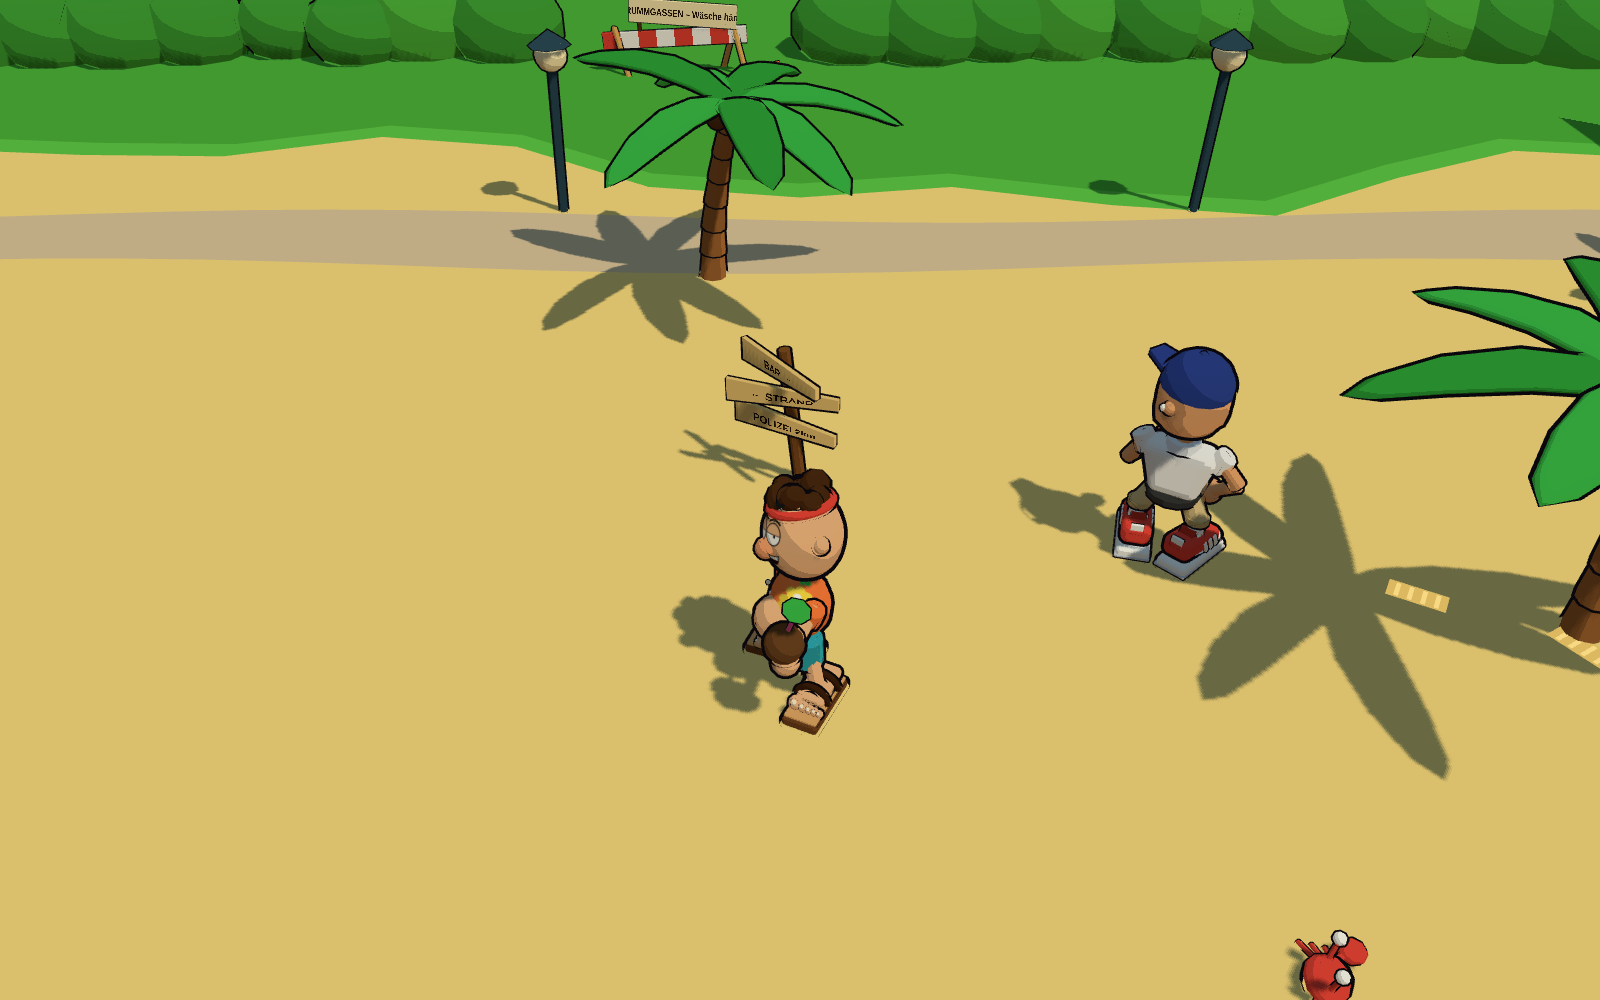
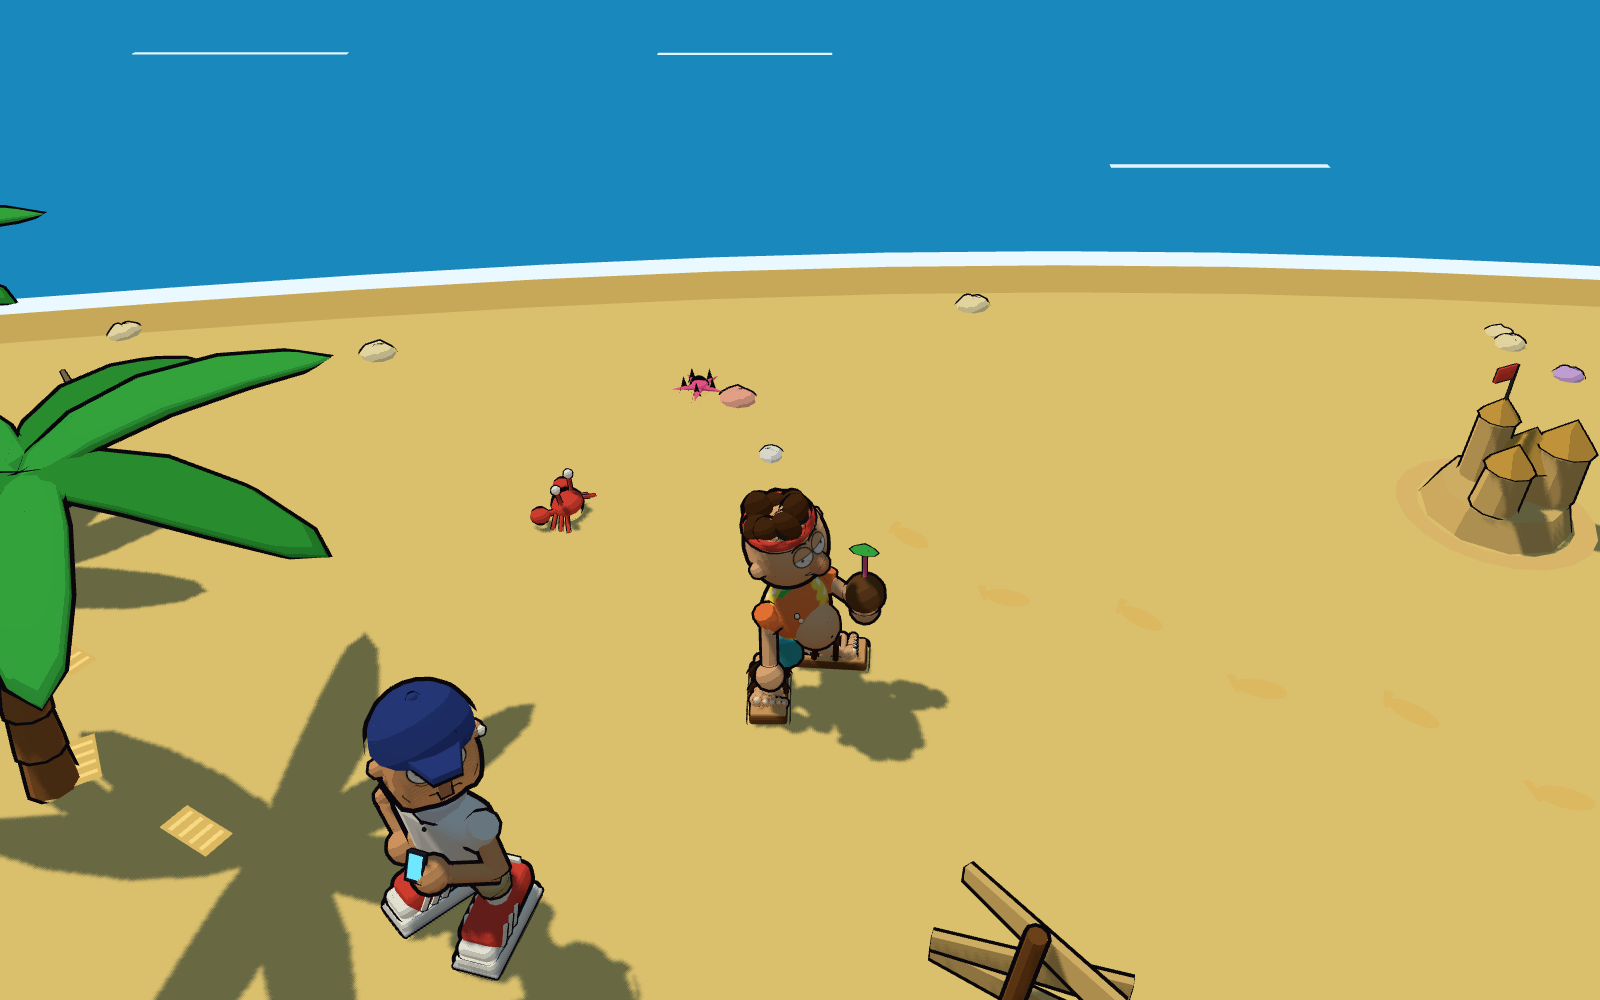
Prototyp: Verdeckungs-Fade, mehr Strand-Details

diff --git a/spiel/js/world.js b/spiel/js/world.js
@@ -2,7 +2,7 @@
 // Bauten und Deko mit passenden Collidern (Kreise für Stämme/Pfosten, Rechtecke für Gebäude).
 import * as THREE from 'three';
 import { toonMesh, toon, basicMat, deform, rng } from './toon.js';
-import { palm, beachBar, pier, boat, signpost, hammock, parasol, beachBall, coconut, crab, cloud, sun, footprints, limb, hut, mailbox, hotel, lounger, rental, sleepingSurfer, barrier, lamp, hedge } from './props.js';
+import { palm, beachBar, pier, boat, signpost, hammock, parasol, beachBall, coconut, crab, cloud, sun, footprints, limb, hut, mailbox, hotel, lounger, rental, sleepingSurfer, barrier, lamp, hedge, shell, starfish, sandcastle, driftwood } from './props.js';
 import { shoreZ, WORLD } from './logic.js';
 
 export const WATER_Y = 0.06;
@@ -19,6 +19,7 @@ function stripMesh(top, bottom, color, y, { x0 = -240, x1 = 240, step = 4, basic
   const m = toonMesh(geo, color, { outline: 0, shadow: false, basic });
   m.position.y = y;
   m.receiveShadow = !basic;
+  m.userData.noFade = true;
   return m;
 }
 
@@ -33,6 +34,7 @@ export function buildWorld() {
   const sand = toonMesh(new THREE.PlaneGeometry(520, 520), 0xf7d984, { outline: 0, shadow: false });
   sand.rotation.x = -Math.PI / 2;
   sand.receiveShadow = true;
+  sand.userData.noFade = true;
   g.add(sand);
   const grassEdge = (x) => -15 + 2.2 * Math.sin(x / 7) + 1.1 * Math.sin(x / 2.3 + 1);
   g.add(stripMesh(() => -260, grassEdge, 0x5fc74a, 0.02));
@@ -44,7 +46,7 @@ export function buildWorld() {
   for (let i = 0; i < 14; i++) {
     const x = -120 + i * 18 + rand() * 8, z0 = shoreZ(Math.max(WORLD.minX, Math.min(WORLD.maxX, x))) + 5 + rand() * 20;
     const w = toonMesh(new THREE.PlaneGeometry(4 + rand() * 4, 0.25), 0xdff4ff, { outline: 0, shadow: false, basic: true });
-    w.rotation.x = -Math.PI / 2; w.position.set(x, WATER_Y + 0.01, z0); g.add(w);
+    w.rotation.x = -Math.PI / 2; w.position.set(x, WATER_Y + 0.01, z0); w.userData.noFade = true; g.add(w);
   }
 
   // Hügel im Nordwesten (Kiffer-Kuppe, nur Kulisse) + Kokoshain-Hügel im Nordosten
@@ -52,11 +54,13 @@ export function buildWorld() {
   hillGeo.scale(44, 14, 30);
   const hill = toonMesh(hillGeo, 0x3f9d37, { outline: 0.12 });
   hill.position.set(-45, -2, -52);
+  hill.userData.noFade = true;
   g.add(hill);
   const hill2Geo = hillGeo.clone();
   hill2Geo.scale(0.6, 0.5, 0.7); // vor toonMesh skalieren, sonst passt die Kontur-Hülle nicht
   const hill2 = toonMesh(hill2Geo, 0x4cae3c, { outline: 0.12 });
   hill2.position.set(60, -2, -48);
+  hill2.userData.noFade = true;
   g.add(hill2);
   // Mentor-Hütte oben auf dem Hügel
   const mentor = hut({ w: 3, h: 2.4, d: 2.6, lean: 0.35, wall: 0x8b5a2b, straw: true, seed: 8 });
@@ -183,21 +187,44 @@ export function buildWorld() {
   g.add(footprints('sneaker', new THREE.Vector3(22, 0, 10), new THREE.Vector3(14, 0, 2), 6));
 
   // Himmel: Sonne (stoned) und Wolken weit weg
-  const s = sun(); s.position.set(70, 48, -170); s.scale.setScalar(5); g.add(s);
+  const s = sun(); s.position.set(70, 48, -170); s.scale.setScalar(5); s.userData.noFade = true; g.add(s);
   for (const [x, y, z, k] of [[-120, 42, -180, 1], [-20, 50, -200, 2], [140, 38, -150, 3], [-200, 30, -60, 4], [220, 34, -20, 5]]) {
-    const c = cloud(k); c.position.set(x, y, z); c.scale.setScalar(4); g.add(c);
+    const c = cloud(k); c.position.set(x, y, z); c.scale.setScalar(4); c.userData.noFade = true; g.add(c);
   }
 
-  // Snap-/Startpunkte: Spielerposition + Blickrichtung
+  // Hingucker: in jedem Kamerablick sollen 2–3 kleine Dinge liegen
+  const sc = sandcastle(); sc.position.set(-6, 0, 9); sc.rotation.y = 0.4; g.add(sc); circle(-6, 9, 1.3);
+  const sc2 = sandcastle(); sc2.position.set(48, 0, 9); sc2.scale.setScalar(0.7); g.add(sc2); circle(48, 9, 0.9);
+  for (const [x, z, sd] of [[-38, 11, 2], [20, 12, 3], [-55, 10, 4]]) {
+    const d = driftwood(sd); d.position.set(x, 0, z); g.add(d);
+  }
+  const shellColors = [0xffd5e0, 0xfff1c2, 0xffb6a3, 0xf4f4f8, 0xd9b3ff];
+  for (let i = 0; i < 26; i++) {
+    const x = WORLD.minX + 4 + rand() * (WORLD.maxX - WORLD.minX - 8);
+    const z = shoreZ(x) - 1 - rand() * 9;
+    const sh = shell(shellColors[i % shellColors.length], i + 7);
+    sh.position.set(x, 0, z); sh.scale.setScalar(0.7 + rand() * 0.6); g.add(sh);
+  }
+  for (const [x, z, col] of [[-16, 11, 0xff8c42], [8, 13, 0xff5fa2], [34, 12, 0xffd54a], [-48, 12, 0xff8c42], [60, 7, 0xff5fa2]]) {
+    const st = starfish(col); st.position.set(x, 0, z); st.rotation.y = rand() * 3; g.add(st);
+  }
+  const cr2 = crab(); cr2.position.set(-30, 0, 11); cr2.rotation.y = -0.8; g.add(cr2);
+  const cr3 = crab(); cr3.position.set(52, 0, 6); cr3.rotation.y = 2.4; g.add(cr3);
+  g.add(footprints('sandal', new THREE.Vector3(-6, 0, 2), new THREE.Vector3(6, 0, 9), 8));
+  g.add(footprints('sneaker', new THREE.Vector3(-44, 0, 12), new THREE.Vector3(-30, 0, 4), 8));
+  g.add(footprints('sandal', new THREE.Vector3(26, 0, 0), new THREE.Vector3(40, 0, 8), 8));
+  g.add(footprints('sneaker', new THREE.Vector3(54, 0, 1), new THREE.Vector3(62, 0, 9), 6));
+
+  // Snap-/Startpunkte: Spielerposition + Blickrichtung (Kamera steht im Norden → yaw ≈ π schaut zur Kamera)
   const spots = {
-    start: { x: -24, z: 3, yaw: 0.35 },
-    bar: { x: -28, z: -1, yaw: Math.PI },
-    pier: { x: -37, z: 9, yaw: -0.3 },
-    mitte: { x: 4, z: 4, yaw: -1.2 },
-    hotel: { x: 36, z: 1, yaw: 2.6 },
-    verleih: { x: -46, z: 0, yaw: 2.4 },
+    start: { x: -20, z: 2, yaw: 2.7 },
+    bar: { x: -28, z: 0, yaw: Math.PI },
+    pier: { x: -37, z: 9, yaw: 0.4 },
+    mitte: { x: 6, z: 5, yaw: -2.4 },
+    hotel: { x: 24, z: -4, yaw: 1.3 },
+    verleih: { x: -40, z: 2, yaw: 2.4 },
     ost: { x: 58, z: -2, yaw: Math.PI / 2 },
-    nord: { x: 0, z: -18, yaw: 0.2 },
+    nord: { x: 0, z: -16, yaw: 0.3 },
   };
   return { group: g, colliders, spots };
 }

diff --git a/spiel/js/main.js b/spiel/js/main.js
@@ -7,10 +7,11 @@ import {
 } from './logic.js';
 
 // Parameter per Regex, weil der Screenshot-Aufruf „?snap=1“ hinter andere Parameter hängt (…?at=bar?snap=1)
-const q = (name) => (location.search.match(new RegExp('[?&]' + name + '=([a-z0-9]+)')) || [])[1];
+const q = (name) => (location.search.match(new RegExp('[?&]' + name + '=([-a-z0-9.]+)')) || [])[1];
 const SNAP = q('snap') === '1';
 const STATS = q('stats') === '1';
 const AT = q('at');
+const CY = q('cy'); // Kamera-Gierung in Grad relativ zum Standard, z. B. ?at=hotel&cy=-90 (Kamera im Osten, Blick nach Westen)
 
 const renderer = new THREE.WebGLRenderer({ antialias: true, preserveDrawingBuffer: SNAP });
 renderer.setPixelRatio(SNAP ? 1 : Math.min(window.devicePixelRatio, 1.5));
@@ -54,7 +55,7 @@ colliders.push({ x: NPC.x, z: NPC.z, r: 0.7 });
 // ---------- Zustand ----------
 const startSpot = world.spots[AT] || world.spots.start;
 let state = { x: startSpot.x, z: startSpot.z, yaw: startSpot.yaw, phase: 0, speed: 0 };
-let camYaw = DEFAULT_CAM_YAW;
+let camYaw = DEFAULT_CAM_YAW + (CY ? parseFloat(CY) * Math.PI / 180 : 0);
 let cam = { x: state.x, y: CAM_OFFSET.up, z: state.z - CAM_OFFSET.back, tx: state.x, ty: CAM_OFFSET.targetY, tz: state.z };
 let clickTarget = null;
 let npcHead = 0;
@@ -104,6 +105,70 @@ function applyCamera() {
   sunLight.target.position.set(state.x, 0, state.z);
 }
 
+// ---------- Verdeckung: was zwischen Kamera und Spieler steht (oder direkt vor der Linse), wird durchsichtig ----------
+// Materialien sind pro Farbe geteilt, deshalb bekommt jedes betroffene Mesh beim Ausblenden eine eigene Kopie.
+const faded = new Map(); // mesh -> Originalmaterial
+const fadeRay = new THREE.Raycaster();
+const tmpV = new THREE.Vector3();
+const tmpSphere = new THREE.Sphere();
+const FADE_OPACITY = 0.25;
+function fadeMesh(m) {
+  if (faded.has(m) || !m.isMesh) return;
+  const orig = m.material;
+  faded.set(m, orig);
+  const mats = Array.isArray(orig) ? orig : [orig];
+  const clones = mats.map((mat) => {
+    const c = mat.clone();
+    c.transparent = true;
+    if (c.isShaderMaterial) c.uniforms.opacity.value = FADE_OPACITY; else c.opacity = FADE_OPACITY;
+    c.depthWrite = false;
+    return c;
+  });
+  m.material = Array.isArray(orig) ? clones : clones[0];
+}
+function unfadeAll(keep) {
+  for (const [m, orig] of faded) {
+    if (keep.has(m)) continue;
+    const cur = Array.isArray(m.material) ? m.material : [m.material];
+    cur.forEach((c) => c.dispose());
+    m.material = orig;
+    faded.delete(m);
+  }
+}
+function updateFade() {
+  const camPos = camera.position;
+  const target = tmpV.set(state.x, 1.4, state.z);
+  const dist = camPos.distanceTo(target);
+  fadeRay.set(camPos, target.clone().sub(camPos).normalize());
+  fadeRay.far = dist - 0.8;
+  const keep = new Set();
+  // Kandidaten: Props in der Nähe des Spielers oder der Kamera (Boden/Wasser sind per noFade ausgenommen)
+  const candidates = [];
+  for (const o of world.group.children) {
+    if (o.userData.noFade) continue;
+    const d = Math.min(o.position.distanceTo(target), o.position.distanceTo(camPos));
+    if (d < 30) candidates.push(o);
+  }
+  const hits = fadeRay.intersectObjects(candidates, true);
+  const groups = new Set();
+  for (const h of hits) {
+    let o = h.object;
+    while (o.parent && o.parent !== world.group) o = o.parent;
+    groups.add(o);
+  }
+  // direkt vor der Linse: Bounding-Sphere des Meshes nahe an der Kamera
+  for (const o of candidates) {
+    if (groups.has(o)) continue;
+    o.traverse((m) => {
+      if (groups.has(o) || !m.isMesh || !m.geometry.boundingSphere) return;
+      tmpSphere.copy(m.geometry.boundingSphere).applyMatrix4(m.matrixWorld);
+      if (tmpSphere.distanceToPoint(camPos) < 2.5) groups.add(o);
+    });
+  }
+  for (const grp of groups) grp.traverse((m) => { if (m.isMesh) { fadeMesh(m); keep.add(m); } });
+  unfadeAll(keep);
+}
+
 function resize() {
   const w = window.innerWidth, h = window.innerHeight;
   renderer.setSize(w, h, true);
@@ -125,8 +190,11 @@ if (SNAP) {
   applyPose(state);
   npc.userData.parts.head.rotation.y = npcHeadYaw(NPC, state);
   for (let i = 0; i < 300; i++) cam = followCamera(cam, state, 1 / 60, camYaw);
-  if (overview) cam = { x: 0, y: 78, z: 78, tx: 0, ty: 0, tz: -8 };
+  if (overview) cam = { x: 0, y: 78, z: -74, tx: 0, ty: 0, tz: 10 };
   applyCamera();
+  camera.updateMatrixWorld();
+  world.group.updateMatrixWorld(true);
+  updateFade();
   const shoot = () => { resize(); renderer.render(scene, camera); requestAnimationFrame(() => { resize(); renderer.render(scene, camera); }); };
   if (document.readyState === 'complete') shoot(); else window.addEventListener('load', shoot);
   window.addEventListener('resize', shoot);
@@ -153,6 +221,8 @@ if (SNAP) {
     npc.userData.parts.head.rotation.y = npcHead;
     cam = followCamera(cam, state, dt, camYaw);
     applyCamera();
+    camera.updateMatrixWorld();
+    updateFade();
     renderer.render(scene, camera);
     stats();
   });

diff --git a/spiel/js/props.js b/spiel/js/props.js
@@ -755,3 +755,68 @@ export function hedge(x0, x1, z, { gapFrom = 1, gapTo = -1, seed = 3 } = {}) {
   }
   return g;
 }
+
+// ---------- Hingucker für den Sand: Muschel, Seestern, Sandburg, Treibholz ----------
+export function shell(color = 0xffd5e0, seed = 1) {
+  const g = new THREE.Group();
+  const rand = rng(seed);
+  const geo = new THREE.SphereGeometry(0.32, 10, 6, 0, Math.PI * 2, 0, Math.PI * 0.5);
+  geo.scale(1, 0.55, 0.85);
+  deform(geo, (v) => { const a = Math.atan2(v.z, v.x); v.y *= 1 + 0.25 * Math.sin(a * 6); });
+  const m = toonMesh(geo, color, { outline: 0.03 });
+  m.rotation.y = rand() * Math.PI * 2;
+  g.add(m);
+  return g;
+}
+
+export function starfish(color = 0xff8c42) {
+  const g = new THREE.Group();
+  const core = toonMesh(new THREE.SphereGeometry(0.18, 8, 6), color, { outline: 0.03 });
+  core.geometry.scale(1, 0.5, 1);
+  core.position.y = 0.08;
+  g.add(core);
+  for (let i = 0; i < 5; i++) {
+    const a = (i / 5) * Math.PI * 2;
+    const arm = toonMesh(new THREE.ConeGeometry(0.11, 0.5, 6), color, { outline: 0.025 });
+    arm.geometry.rotateX(Math.PI / 2);
+    arm.geometry.scale(1, 0.5, 1);
+    arm.position.set(Math.cos(a) * 0.3, 0.07, Math.sin(a) * 0.3);
+    arm.rotation.y = -a + Math.PI / 2;
+    g.add(arm);
+  }
+  return g;
+}
+
+export function sandcastle() {
+  const g = new THREE.Group();
+  const c = 0xe8c47a;
+  const base = toonMesh(new THREE.CylinderGeometry(1.0, 1.2, 0.5, 10), c, { outline: 0.04 });
+  base.position.y = 0.25; g.add(base);
+  const towers = [[-0.5, -0.4, 0.42, 1.0], [0.55, -0.3, 0.36, 0.8], [0.1, 0.5, 0.3, 1.2], [-0.2, 0.0, 0.5, 0.6]];
+  for (const [x, z, r, h] of towers) {
+    const t = toonMesh(new THREE.CylinderGeometry(r * 0.9, r, h, 10), c, { outline: 0.035 });
+    t.position.set(x, 0.5 + h / 2, z); t.rotation.z = (x - z) * 0.08; g.add(t);
+    const roof = toonMesh(new THREE.ConeGeometry(r * 1.05, r * 1.2, 10), 0xd9a84a, { outline: 0.035 });
+    roof.position.set(x, 0.5 + h + r * 0.55, z); g.add(roof);
+  }
+  // Fähnchen auf dem höchsten Turm
+  g.add(limb(new THREE.Vector3(0.1, 1.9, 0.5), new THREE.Vector3(0.15, 2.7, 0.5), 0.02, 0x333333, { outline: 0.01 }));
+  const flag = toonMesh(new THREE.BoxGeometry(0.4, 0.25, 0.03), 0xe8463a, { outline: 0.02 });
+  flag.position.set(0.37, 2.58, 0.5); g.add(flag);
+  // Burggraben-Andeutung: dunkler Ring
+  const moat = toonMesh(new THREE.RingGeometry(1.25, 1.6, 20), 0xd9b56a, { outline: 0, shadow: false, basic: true });
+  moat.rotation.x = -Math.PI / 2; moat.position.y = 0.012; g.add(moat);
+  return g;
+}
+
+export function driftwood(seed = 2) {
+  const g = new THREE.Group();
+  const rand = rng(seed);
+  const pts = [new THREE.Vector3(-1.2, 0.15, 0), new THREE.Vector3(-0.3, 0.25, 0.25), new THREE.Vector3(0.5, 0.15, -0.1), new THREE.Vector3(1.3, 0.3, 0.2)];
+  const curve = new THREE.CatmullRomCurve3(pts);
+  const tube = toonMesh(new THREE.TubeGeometry(curve, 10, 0.16, 7, false), 0xa08a6a, { outline: 0.035 });
+  g.add(tube);
+  g.add(limb(new THREE.Vector3(0.4, 0.2, -0.1), new THREE.Vector3(0.7, 0.55, -0.5), 0.07, 0xa08a6a, { outline: 0.025, taper: 0.5 }));
+  g.rotation.y = rand() * Math.PI * 2;
+  return g;
+}

diff --git a/spiel/test/logic.test.js b/spiel/test/logic.test.js
@@ -136,12 +136,12 @@ test('followCamera: konvergiert auf Offset hinter/über dem Spieler, schaut aufs
   let c2 = { ...cam };
   for (let i = 0; i < 600; i++) c2 = followCamera(c2, p, 1 / 60, Math.PI / 2);
   close(c2.x, 10 + CAM_OFFSET.back, 1e-3); close(c2.z, 5, 1e-3);
-  // Standard-Gierung: Kamera im Süden (+z), schaut nach Norden; „hoch“ läuft nach Norden (Karte oben)
+  // Standard-Gierung: Kamera im Norden (-z), schaut nach Süden aufs Meer; „hoch“ läuft Richtung Meer
   let c3 = { ...cam };
   for (let i = 0; i < 600; i++) c3 = followCamera(c3, p, 1 / 60, DEFAULT_CAM_YAW);
-  close(c3.z, 5 + CAM_OFFSET.back, 1e-3); close(c3.tz, 5 - CAM_OFFSET.lookAhead, 1e-3);
+  close(c3.z, 5 - CAM_OFFSET.back, 1e-3); close(c3.tz, 5 + CAM_OFFSET.lookAhead, 1e-3);
   const up = inputToDir({ up: true }, DEFAULT_CAM_YAW);
-  close(up.x, 0, 1e-9); close(up.z, -1, 1e-9);
+  close(up.x, 0, 1e-9); close(up.z, 1, 1e-9);
 });
 
 test('followCamera: sanft — ein Schritt bewegt nur einen Teil', () => {

diff --git a/spiel/js/toon.js b/spiel/js/toon.js
@@ -39,14 +39,14 @@ export function outlineMaterial(thickness) {
   const key = thickness.toFixed(4);
   if (!outlineMats.has(key)) {
     outlineMats.set(key, new THREE.ShaderMaterial({
-      uniforms: { thickness: { value: thickness } },
+      uniforms: { thickness: { value: thickness }, opacity: { value: 1.0 } },
       vertexShader: `
         uniform float thickness;
         void main() {
           vec3 p = position + normalize(normal) * thickness;
           gl_Position = projectionMatrix * modelViewMatrix * vec4(p, 1.0);
         }`,
-      fragmentShader: `void main() { gl_FragColor = vec4(0.04, 0.03, 0.05, 1.0); }`,
+      fragmentShader: `uniform float opacity; void main() { gl_FragColor = vec4(0.04, 0.03, 0.05, opacity); }`,
       side: THREE.BackSide,
     }));
   }

diff --git a/spiel/js/logic.js b/spiel/js/logic.js
@@ -127,7 +127,7 @@ export function stepPlayer(state, input, dt, colliders = [], world = WORLD) {
  * sanft nachgezogen (exponentiell). cam: { x, y, z, tx, ty, tz }
  */
 export const CAM_OFFSET = { back: 13, up: 13, lookAhead: 3.0, targetY: 1.0 };
-export const DEFAULT_CAM_YAW = 0; // Kamera steht im Süden (Meer im Rücken) und schaut nach Norden: Karte oben = Norden
+export const DEFAULT_CAM_YAW = Math.PI; // Kamera steht im Norden und schaut übers Land aufs Meer (Q/E dreht)
 export function followCamera(cam, player, dt, camYaw = 0, k = 4) {
   const c = Math.cos(camYaw), s = Math.sin(camYaw);
   const ox = s * CAM_OFFSET.back, oz = c * CAM_OFFSET.back;

diff --git a/spiel/README.md b/spiel/README.md
@@ -18,15 +18,16 @@ python3 -m http.server 8000
 Dann `http://localhost:8000/` öffnen.
 
 ## Steuerung
-- **WASD / Pfeiltasten** – gehen (Karte: oben = Norden, unten = Meer)
+- **WASD / Pfeiltasten** – gehen, relativ zur Kamera (Standard: oben im Bild = Richtung Meer)
 - **Shift** – „rennen“ (Sandalen: nur ein bisschen schneller, dafür mehr Gewackel)
 - **Q / E** – Kamera um den Spieler drehen
 - **Klick auf den Boden** – hinlaufen
 - Bis knöcheltief ins Wasser geht es, dann ist Schluss. Die drei Ausgänge (Surfer-Bucht, Krummgassen, Promenade)
   enden an Absperrungen.
 
-URL-Parameter: `?at=start|bar|pier|mitte|hotel|verleih|ost|nord` setzt den Startpunkt, `?stats=1` zeigt
-Draw-Calls/Dreiecke/FPS, `?snap=1` rendert ein einzelnes Standbild (für die PNGs in `shots/`).
+URL-Parameter: `?at=start|bar|pier|mitte|hotel|verleih|ost|nord|overview` setzt den Startpunkt, `?cy=-90` dreht die
+Kamera (Grad, relativ zum Standard), `?stats=1` zeigt Draw-Calls/Dreiecke/FPS, `?snap=1` rendert ein einzelnes
+Standbild (für die PNGs in `shots/`).
 
 ## Dateien
 - `index.html` – Seite, Importmap, Fehler-Overlay.
@@ -36,7 +37,8 @@ Draw-Calls/Dreiecke/FPS, `?snap=1` rendert ein einzelnes Standbild (für die PNG
 - `test/logic.test.js` – Tests dazu (`npm test` bzw. `node --test "test/**/*.test.js"`), kein Browser nötig.
 - `js/world.js` – die Zone: Sand, Sichelbucht (Wasser, nasser Sand, Schaum), Gras und Hügel im Norden, Promenade
   mit Laternen, Hecke mit Lücke, Absperrungen, Bangi Bar, Steg + Boot, Verleih mit Surfbrettern und schlafendem
-  Surfer, Hotel mit Pool und Rutsche, Liegen, Hängematte, Wegweiser, Deko; liefert die Collider gleich mit.
+  Surfer, Hotel mit Pool und Rutsche, Liegen, Hängematte, Wegweiser, Sandburgen, Muscheln, Seesterne, Krabben,
+  Treibholz, Fußspuren; liefert die Collider gleich mit.
 - `js/figures.js` – Schluffi (Spieler) und Turnschuh-Typ (NPC) mit Pivot-Gruppen statt Rig.
 - `js/props.js`, `js/faces.js`, `js/toon.js` – Bauteile, gemalte Gesichter, Toon-Material + Konturen
   (Material-Cache pro Farbe).
@@ -52,8 +54,13 @@ Draw-Calls/Dreiecke/FPS, `?snap=1` rendert ein einzelnes Standbild (für die PNG
   Absperrungen = achsenparallele Rechtecke (etwas größer als das sichtbare Objekt). Rausdrücken zum nächsten Punkt
   auf dem Rand, zwei Durchgänge für Ecken. Danach Welt-Grenzen und Ufer: `shoreZ(x)` + knöcheltiefe Zugabe.
 - **Kamera:** fester Offset (13 zurück, 13 hoch, ≈ 45°) um die Gierung gedreht, Position und Blickpunkt
-  exponentiell nachgezogen. Standard steht die Kamera im Süden und schaut nach Norden, damit die Welt wie auf der
-  Karte liegt (oben = Norden) und Bar, Verleih und Hotel ihre Fronten zeigen; das Meer ist dann unten im Bild.
+  exponentiell nachgezogen. Standard steht die Kamera im Norden und schaut übers Land aufs Meer — so ist das Wasser
+  fast immer im Bild; mit Q/E dreht man sich die Hütten und Hügel ins Bild.
+- **Verdeckung:** Jeden Frame geht ein Strahl von der Kamera zum Spieler. Props, die er trifft oder die direkt vor
+  der Linse stehen (Bounding-Sphere näher als 2.5), werden als ganze Gruppe auf 25 % Deckkraft gesetzt — inklusive
+  Kontur-Hülle (der Kontur-Shader hat dafür ein `opacity`-Uniform). Weil Materialien pro Farbe geteilt sind, bekommt
+  jedes ausgeblendete Mesh eine Materialkopie und beim Einblenden sein Original zurück. Boden, Wasser, Himmel und
+  Hügel sind per `userData.noFade` ausgenommen.
 - **Watscheln ohne Rig:** Beine und Arme sind Gruppen mit Pivot an Hüfte/Schulter und drehen gegenläufig um x;
   die Sandale hebt die Ferse, wenn das Bein nach hinten schwingt; der Oberkörper (eigene Pivot-Gruppe an der
   Hüfte) wippt, kippt seitlich und lehnt sich beim Rennen vor; der Kopf gegenläufig dazu.
@@ -70,6 +77,6 @@ Draw-Calls/Dreiecke/FPS, `?snap=1` rendert ein einzelnes Standbild (für die PNG
   Draw-Calls auf schwächeren Rechnern bremsen.
 - Steg begehbar machen (derzeit ein Block, man läuft am Strand daran vorbei).
 - Mehr Leben: Rentner auf den Liegen, Streife auf der Promenade, Möwe, Wellen mit leichter Bewegung.
-- Kamera-Alternativen zum Ausprobieren: Kamera im Norden (Meer immer im Bild, Karte dann um 180° gedreht und
-  Gebäude von hinten) oder leicht schräg aus Südwest.
+- Kamera-Alternative zum Ausprobieren: Kamera im Süden (Welt liegt wie auf der Karte, Gebäude zeigen ihre Fronten,
+  Meer dafür unten im Bild) — nur eine Konstante (`DEFAULT_CAM_YAW`).
 - Übergänge zu den Nachbarzonen (Krummgassen, Promenade/Pier) statt Absperrungen.
